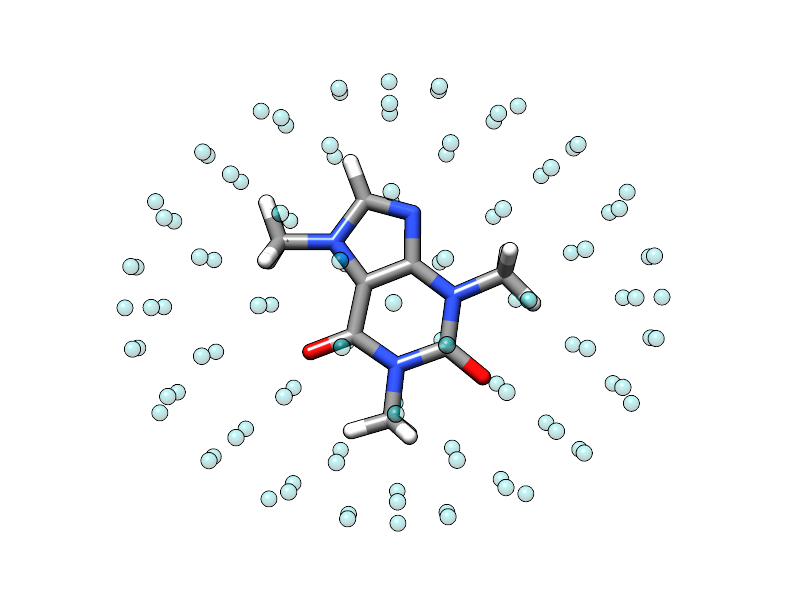
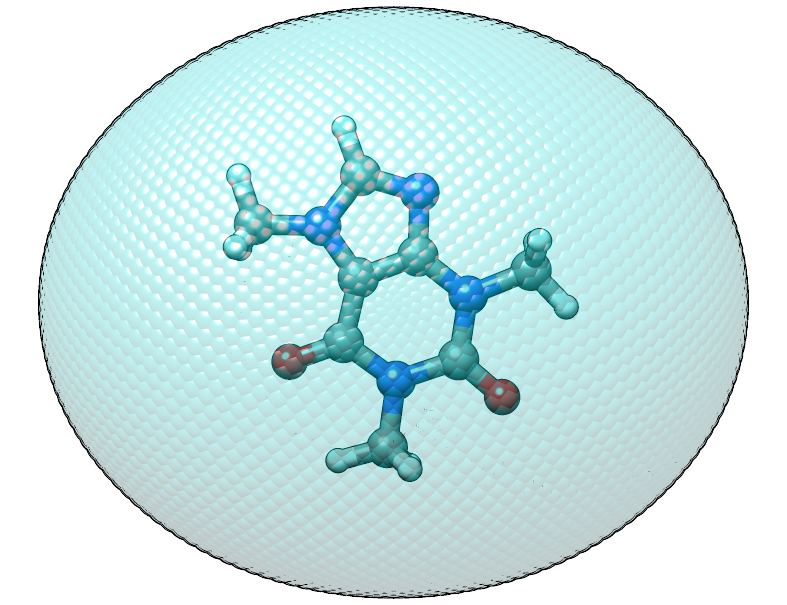
fancy graphics for wall potentials

diff --git a/source/xcontrol.rst b/source/xcontrol.rst
@@ -371,7 +371,7 @@ we just created.
    :align: center
 
    The sphere used to construct the potential is represented by the
-   transparent green dots placed on a 110 Lebedev grid.
+   transparent teal dots placed on a fine Lebedev grid.
    Visual inspection suggests that the potential is misplaced.
 
 To cope with this we should put the center of mass of the caffeine molecule
@@ -380,7 +380,7 @@ file, which shifts the coordinates with the center of mass and aligns
 the molecule to its principal axes of inertia.
 
 .. figure:: ../figures/confining_shifted.png
-   :width: 450px
+   :width: 400px
    :align: center
 
    The caffeine molecule is now shifted correctly inside the potential.
@@ -427,7 +427,7 @@ A clear disadvantage of this potential shape it that the gradient does
 not vanish inside the sphere and can compress a molecule artificially.
 
 .. figure:: ../figures/potential_shapes.png
-   :width: 450px
+   :width: 400px
    :align: center
 
    Available potential shapes with energy and gradient contribution.
